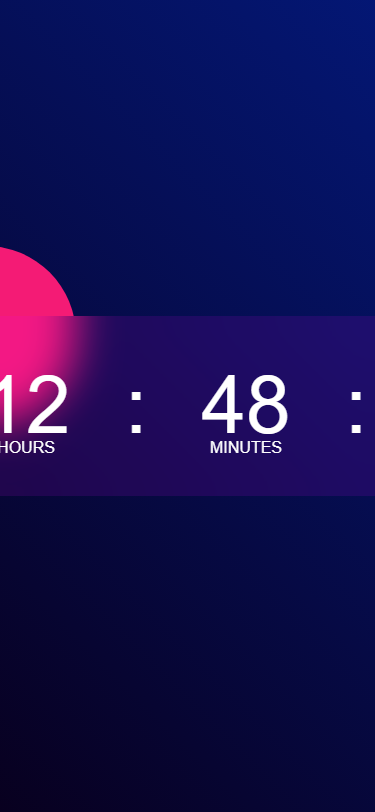
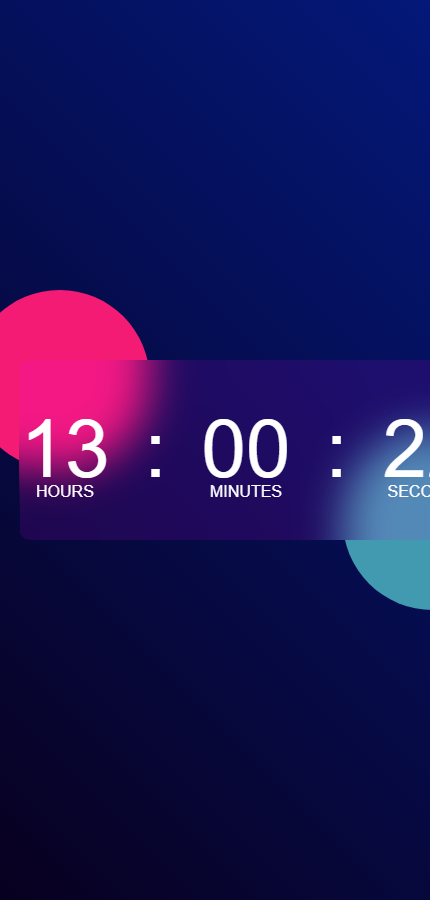
Update container width for responsiveness and replace mobile image

Changed region(s): [[0.0, 0.3079, 1.0, 0.6773], [0.352, 0.5234, 0.3813, 0.5542]]

diff --git a/src/css/styles.css b/src/css/styles.css
@@ -90,7 +90,7 @@ body {
 
 @media (max-width: 768px) {
     .container {
-        width: 600px;
+        width: min(600px, 92vw);
     }
 }
 